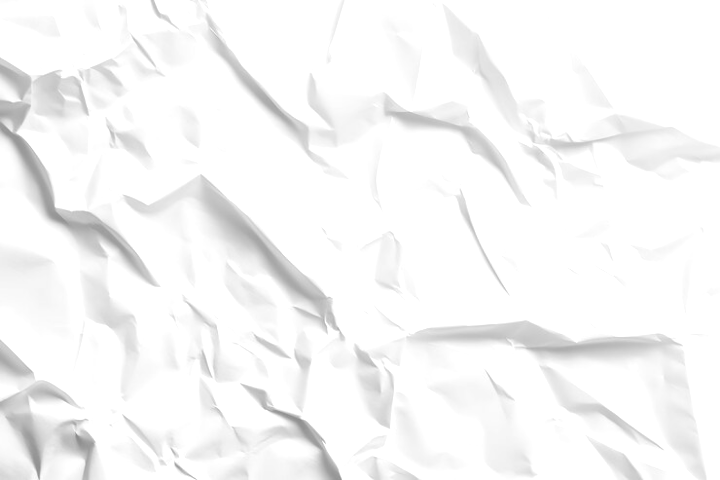
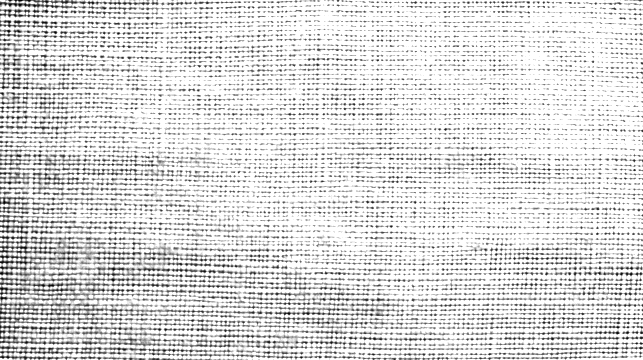
Texture des sachets : toile tissée à la place du papier froissé (#62)
* Papier froissé sans mix-blend-mode (fiable sur mobile)

Le mix-blend-mode multiply ne rendait pas correctement sur mobile (iOS).
Remplacé par une texture pré-calculée en transparence (paper-emboss.png :
ombres noires dans les creux, légers reflets blancs sur les reliefs),
posée en compositing normal — rendu identique sur tous les navigateurs.
Couleurs préservées. Ancien paper.jpg supprimé. SW bumpé en v4.

* Vignettes: nouveau papier froissé blanc, fiche produit tournée à 90°

- .card::before utilise /paper-emboss.png (papier blanc régénéré)
- .modal__card::before utilise /paper-emboss-90.png (même grain, 90°)
- build.mjs external mis à jour
- service worker bump v4 → v5 (ajoute paper-emboss-90.png)

* Fiche produit : papier froissé atténué et répété en petit grain

Sur la grande surface de la fiche, « cover » étirait la texture 90° en
énormes taches sombres qui masquaient les couleurs. La texture est
maintenant répétée à 380px et l'opacité abaissée à 0.32 → grain fin et
discret, couleurs et texte bien lisibles.

* Fiche produit : texture fixe + contenu défilant par-dessus

Avant, la texture (::before) défilait avec le contenu et ne couvrait qu'une
bande → des zones de la fiche restaient sans effet. Désormais :

- .modal__card ne défile plus (overflow:hidden) → la texture reste fixe et
  couvre toute la fiche, sans zone vide.
- Le contenu passe dans .modal__scroll qui défile par-dessus.
- Effet adouci (opacité 0.32 → 0.2), grain fin et uniforme.
[…]

diff --git a/public/sw.js b/public/sw.js
@@ -1,5 +1,5 @@
 /* Service worker — Lipton · Sachets de thé (PWA) */
-const CACHE = "lipton-v6";
+const CACHE = "lipton-v7";
 const ASSETS = [
   "/",
   "/index.html",
